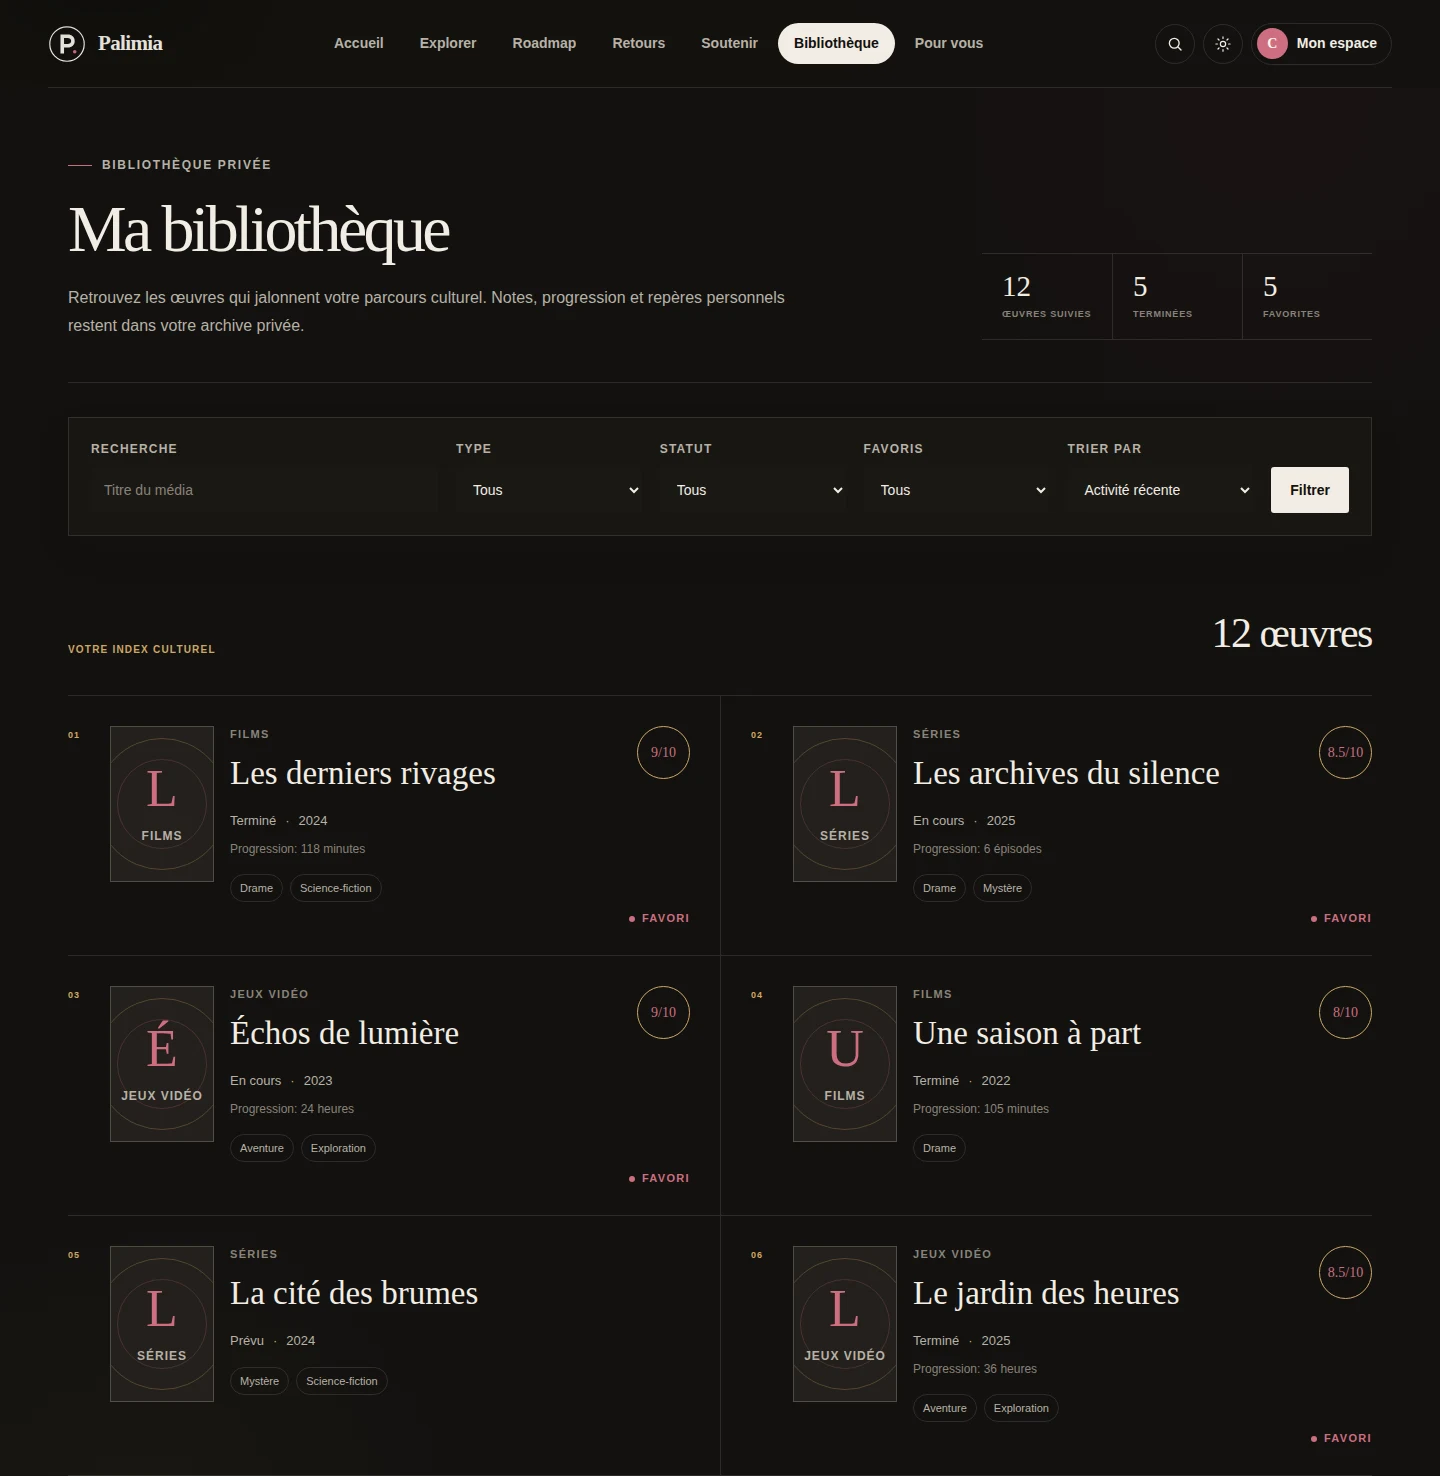
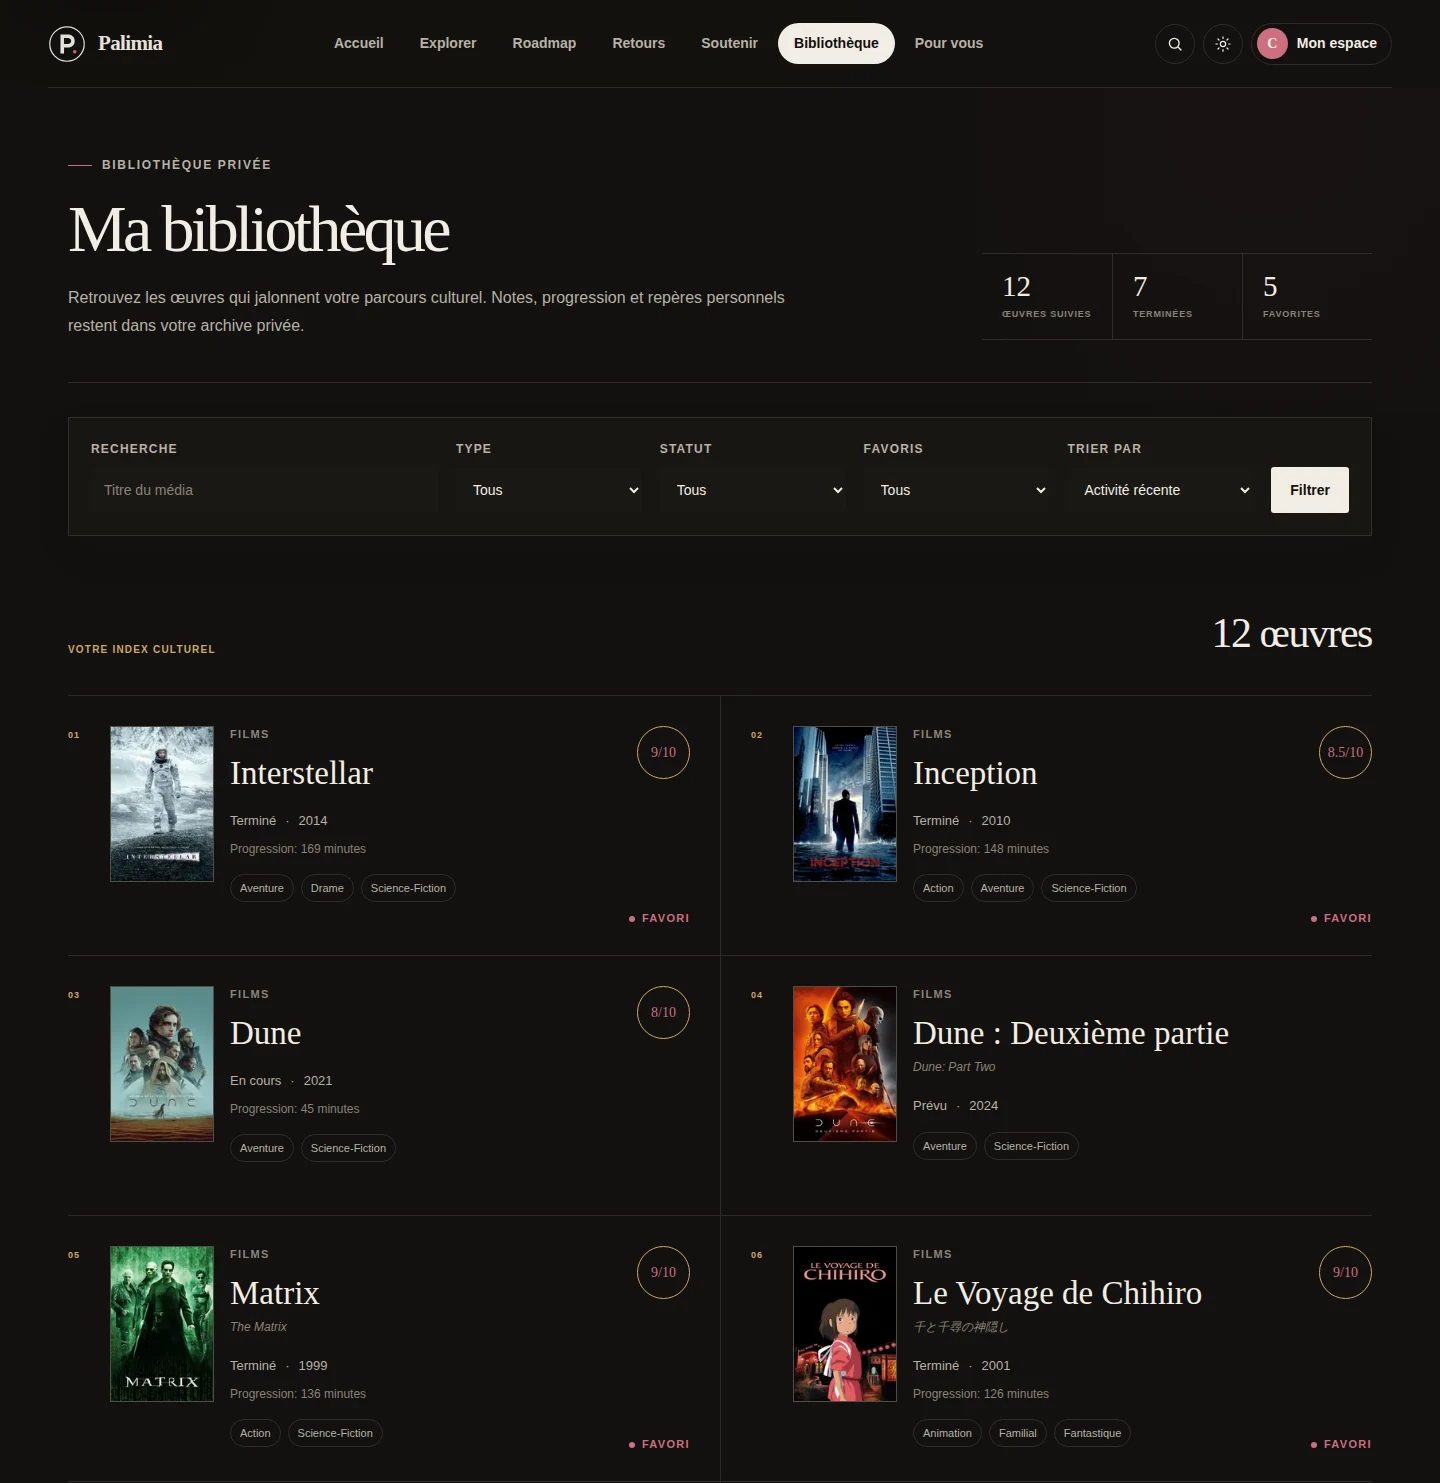
content(palimia): show real films and posters in captures

diff --git a/docs/public-content-record.md b/docs/public-content-record.md
@@ -20,7 +20,7 @@ This file records approved publication decisions that are not already fully repr
 - On October 2, 2026, Ethan approved the proposed bilingual updates: Palimia's explainable recommendations, personal data export and account deletion; Ludosaic's pending-result synchronization, duplicate prevention and private-room recovery. Their existing launch limitations remain in force.
 - On October 2, 2026, Ethan approved a bilingual technical overview of ZaykoHub, his personal homelab in preparation: versioned inventories, Docker Compose configurations, Ansible playbooks, Python validation, and preparation of monitoring, backups and restoration. The project remains a `teaser`, with local preparation and testing only and no deployed services. Private topology, infrastructure addresses and repository links remain excluded.
 - In the same request, Ethan explicitly authorized taking and including application screenshots with demonstration data. This supersedes the earlier decision to omit screenshots; each retained capture must record its source version, rights, demonstration-data review and localized alternatives in `docs/media-provenance.json`.
-- On October 3, 2026, Ethan requested new Palimia captures in dark mode with a fuller demonstration database. The retained frames show six entries from a 12-work private library and six of nine calculated recommendations. The works and all personal tracking data remain fictional; no provider artwork or real account data is included.
+- On October 3, 2026, Ethan requested new Palimia captures in dark mode with a fuller demonstration database. The retained frames show six entries from a 12-work private library and six of nine calculated recommendations. In the initial captures, the works and personal tracking data were fictional. Ethan then explicitly requested real movies with their posters in the same task. The replacement captures use TMDB movie titles and posters, with fictional ratings, favorites and progress in a disposable account; no real personal account data is included. This permits reviewed third-party artwork inside these application captures, with TMDB credit and per-film source records, rather than general standalone third-party media.
 - The production portfolio is a static site with no form, browser-side analytics, tracking cookies, user account, database, or embedded third-party content.
 - The canonical public origin is `https://ethanbrosselard.com`; `www` redirects to the apex domain.
 

diff --git a/docs/architecture.md b/docs/architecture.md
@@ -55,7 +55,7 @@ The `noindex` mode reduces accidental indexing risk but does not replace Cloudfl
 
 `scripts/generate-brand-assets.mjs` generates the 64 × 64 favicon, 180 × 180 Apple touch icon, general 1200 × 630 social card, and dedicated Palimia and Ludosaic social cards from deterministic HTML and CSS based on Violet Field tokens. ZaykoHub uses the general portfolio social card. Generated PNG files are versioned under `public/`; production builds do not run Chromium.
 
-`docs/media-provenance.json` records every publishable media file, its source, SHA-256 hash, dimensions when applicable, and byte budget. Validation rejects missing or unlisted media, modified hashes or dimensions, budget overruns, and bundled fonts. Approved application captures live under `src/assets/projects/<slug>/` and are imported by the paired MDX entries. `ProjectCapture.astro` uses Astro's image pipeline for responsive WebP sizes, explicit dimensions and lazy loading, and links to the full-size capture. Capturing applications is a separate local editorial operation; the portfolio build never reads or starts their repositories. The interface distributes no video, third-party media or font files.
+`docs/media-provenance.json` records every publishable media file, its source, SHA-256 hash, dimensions when applicable, and byte budget. Validation rejects missing or unlisted media, modified hashes or dimensions, budget overruns, and bundled fonts. Approved application captures live under `src/assets/projects/<slug>/` and are imported by the paired MDX entries. `ProjectCapture.astro` uses Astro's image pipeline for responsive WebP sizes, explicit dimensions and lazy loading, and links to the full-size capture. Capturing applications is a separate local editorial operation; the portfolio build never reads or starts their repositories. The interface distributes no video, standalone third-party artwork or font files. Since Ethan’s October 3 request, reviewed Palimia captures may include real movie posters supplied by TMDB. Their source and credits are recorded in the media manifest and the paired case studies; this exception does not permit unrelated standalone artwork or external embeds.
 
 ## Security and privacy
 
